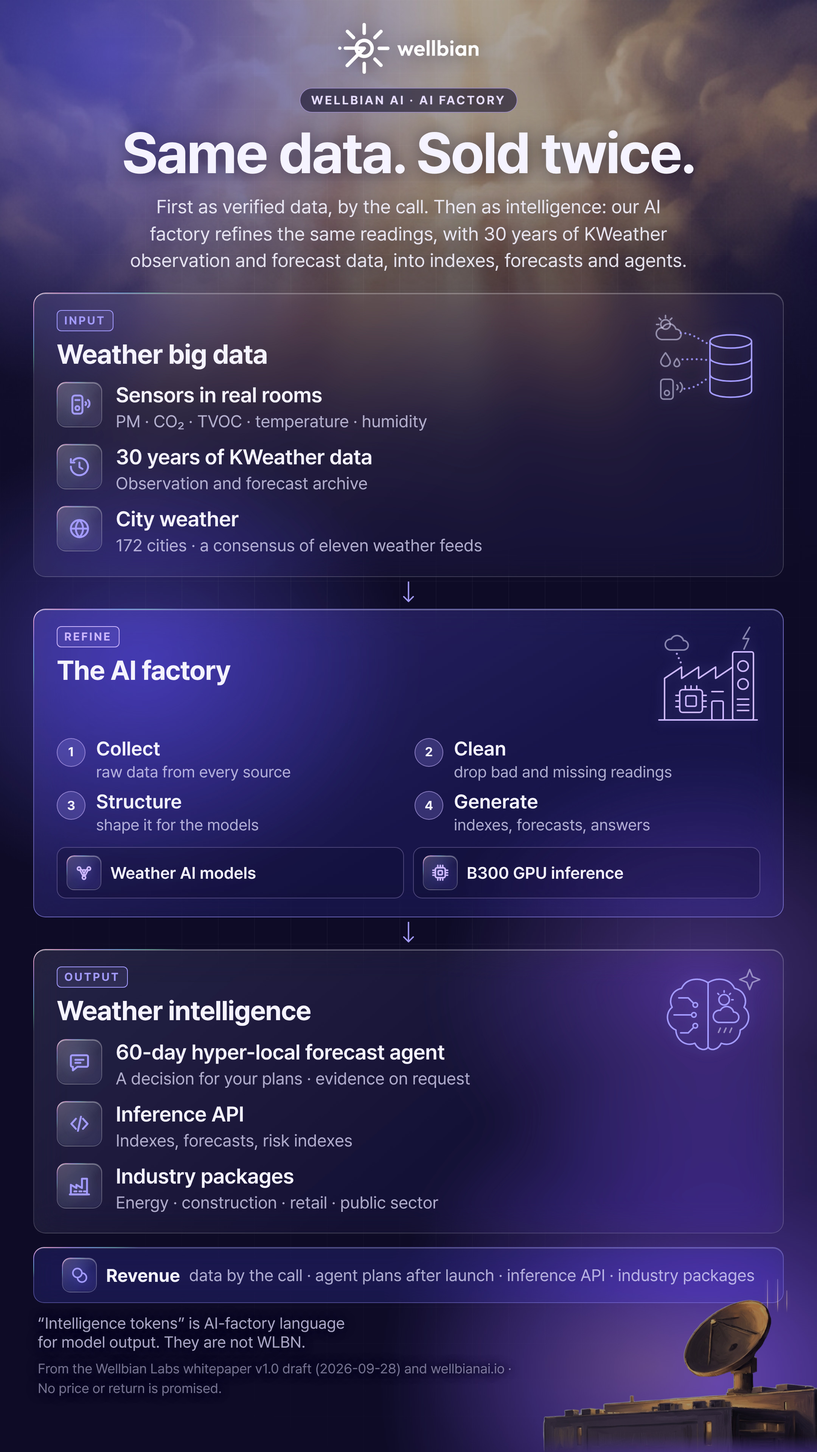
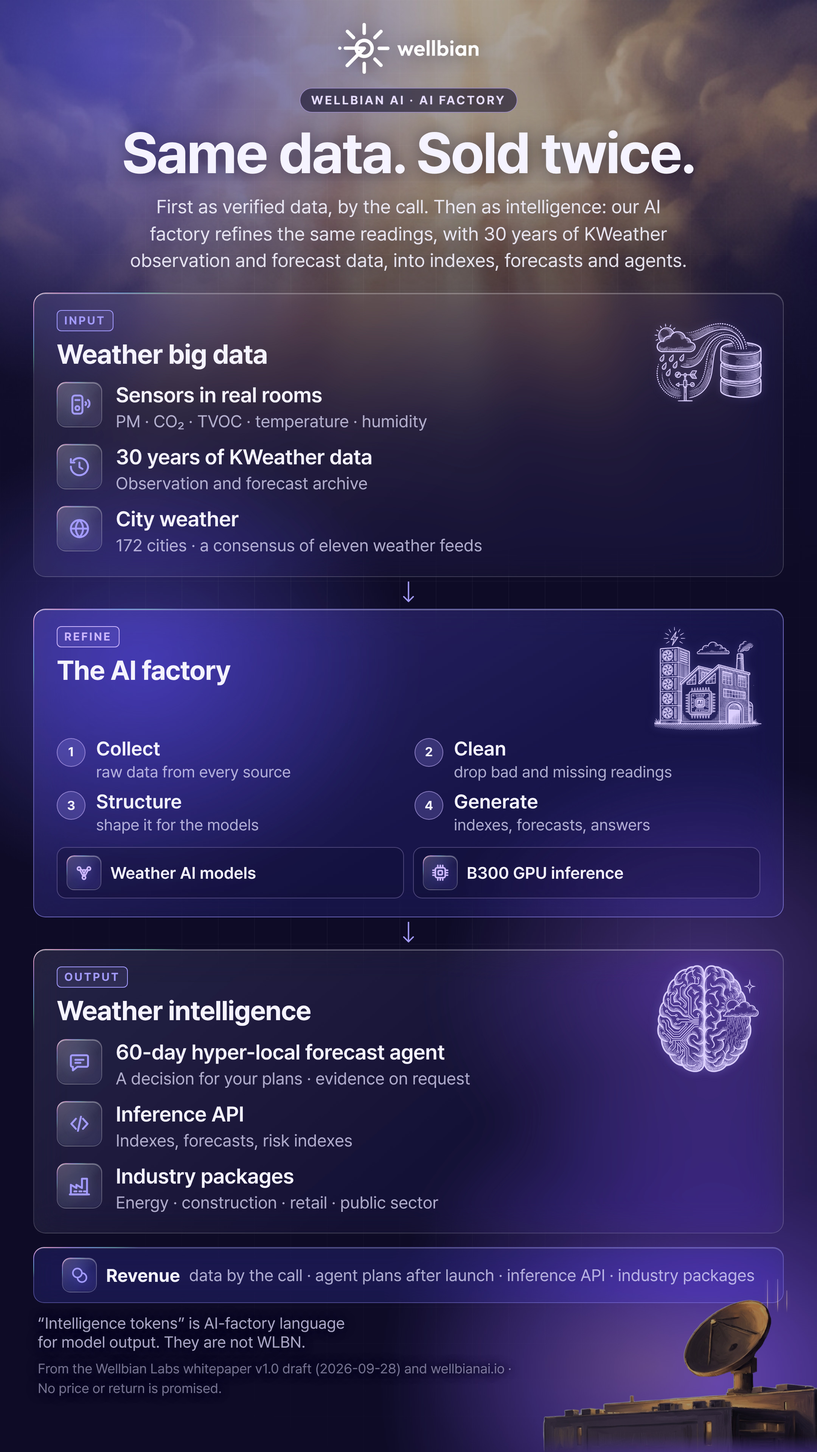
depin: redraw the part 3 tile illustrations as lavender etchings
Claude-Session: https://claude.ai/code/session_014drgzQYBXTLjd1zzmsjRaS

Changed region(s): [[0.8065, 0.6562, 0.9306, 0.75], [0.8065, 0.4375, 0.9306, 0.5], [0.8065, 0.2188, 0.9306, 0.2812]]

diff --git a/depin/content/ai-factory-1021/ai-factory-en-9x16.html b/depin/content/ai-factory-1021/ai-factory-en-9x16.html
@@ -98,6 +98,7 @@ h1{margin-top:18px;font-size:70px;font-weight:700;letter-spacing:-.025em;line-he
 .ill svg{width:100%;height:100%;fill:none;stroke:currentColor;stroke-width:1.6;stroke-linecap:round;stroke-linejoin:round;filter:drop-shadow(0 0 8px rgba(163,155,255,.35))}
 .ill .l2{stroke:rgba(226,224,255,.55)}
 .ill .dot{stroke:currentColor;stroke-width:2.2;stroke-dasharray:0 5;opacity:.85}
+.ill.etch img{width:100%;height:100%;object-fit:contain;display:block;filter:drop-shadow(0 0 6px rgba(163,155,255,.35))}
 /* 햇살 — 위에서 구름 사이로 쏟아지는 풍부한 금빛(마니에리스모 · 틴토레토 · 엘 그레코의 하늘빛). 10/22 서우 「인위적인 조명 말고 자연스러운 햇살」.
    그린 빛이 아니라 Higgsfield 로 만든 회화풍 배경(assets/light-*.jpg)을 깔고, 아래쪽은 남보라로 덮어 타일 글씨를 지킨다. */
 .paint{position:absolute;inset:0;background:url("assets/light-16x9.jpg") center top/cover no-repeat;opacity:.66}  /* 10/22 서우 「20% 약하게」 .82 → .66 */
@@ -175,11 +176,11 @@ h1{margin-top:14px;font-size:76px;line-height:1.04;text-align:center;letter-spac
 <div class="kicker">Wellbian AI · AI factory</div>
 <h1>Same data. Sold twice.</h1><p class="sub">First as verified data, by the call. Then as intelligence: our AI factory refines the same readings, with 30 years of KWeather observation and forecast data, into indexes, forecasts and agents.</p>
 <div class="fab">
-<section class="ft glass glint"><div class="ill"><svg viewBox="0 0 120 120" aria-hidden="true"><ellipse cx="84" cy="38" rx="22" ry="7"/><path d="M62 38v52c0 3.9 9.8 7 22 7s22-3.1 22-7V38"/><path d="M62 55.5c0 3.9 9.8 7 22 7s22-3.1 22-7"/><path d="M62 73c0 3.9 9.8 7 22 7s22-3.1 22-7"/><g class="l2"><circle cx="15" cy="20" r="5"/><path d="M15 10.5v2.5M5.5 20H8M8.3 13.3l1.8 1.8M21.7 13.3l-1.8 1.8"/><path d="M11 36h15a5.5 5.5 0 0 0 0-11 7.5 7.5 0 0 0-14-1.5A6 6 0 0 0 11 36z"/><path d="M15 50c-3.2 4.3-5 7.2-5 9.3a5 5 0 0 0 10 0c0-2.1-1.8-5-5-9.3z"/><path d="M27 56c-1.9 2.6-3 4.3-3 5.6a3 3 0 0 0 6 0c0-1.3-1.1-3-3-5.6z"/><rect x="10" y="78" width="13" height="21" rx="3"/><circle cx="16.5" cy="92.5" r="2.6"/><path d="M27 84c1.5 1.3 1.5 3.7 0 5M30.5 81.5c3 2.7 3 7.3 0 10"/></g><g class="dot"><path d="M31 29c12 0 18 6 30 12"/><path d="M33 57c10 0 17-1 28 1"/><path d="M35 88c10 0 16-5 26-12"/></g></svg></div><div class="hd"><div class="eyebrow">Input</div><h2>Weather big data</h2></div><div class="items"><div class="it"><span class="ico"><svg viewBox="0 0 24 24" aria-hidden="true"><rect x="5" y="3" width="10" height="18" rx="2.5"/><circle cx="10" cy="15.5" r="2"/><path d="M8 7.5h4"/><path d="M18 9.5c1 .8 1 2.2 0 3"/><path d="M20.5 7.5c2 1.7 2 5.3 0 7"/></svg></span><div><b>Sensors in real rooms</b><span class="d"><span class="nw">PM ·</span> <span class="nw">CO₂ ·</span> <span class="nw">TVOC ·</span> <span class="nw">temperature ·</span> <span class="nw">humidity</span></span></div></div><div class="it"><span class="ico"><svg viewBox="0 0 24 24" aria-hidden="true"><path d="M3.5 12a8.5 8.5 0 1 0 2.5-6"/><path d="M3.5 4.5V8H7"/><path d="M12 8v4.5l3 1.8"/></svg></span><div><b>30 years of KWeather data</b><span class="d">Observation and forecast archive</span></div></div><div class="it"><span class="ico"><svg viewBox="0 0 24 24" aria-hidden="true"><circle cx="12" cy="12" r="8.5"/><path d="M3.5 12h17"/><path d="M12 3.5c2.5 2.6 3.6 5.4 3.6 8.5s-1.1 5.9-3.6 8.5c-2.5-2.6-3.6-5.4-3.6-8.5S9.5 6.1 12 3.5z"/></svg></span><div><b>City weather</b><span class="d"><span class="nw">172 cities ·</span> <span class="nw">a consensus of eleven weather feeds</span></span></div></div></div></section>
+<section class="ft glass glint"><div class="ill etch"><img src="assets/etch-data.png" alt=""></div><div class="hd"><div class="eyebrow">Input</div><h2>Weather big data</h2></div><div class="items"><div class="it"><span class="ico"><svg viewBox="0 0 24 24" aria-hidden="true"><rect x="5" y="3" width="10" height="18" rx="2.5"/><circle cx="10" cy="15.5" r="2"/><path d="M8 7.5h4"/><path d="M18 9.5c1 .8 1 2.2 0 3"/><path d="M20.5 7.5c2 1.7 2 5.3 0 7"/></svg></span><div><b>Sensors in real rooms</b><span class="d"><span class="nw">PM ·</span> <span class="nw">CO₂ ·</span> <span class="nw">TVOC ·</span> <span class="nw">temperature ·</span> <span class="nw">humidity</span></span></div></div><div class="it"><span class="ico"><svg viewBox="0 0 24 24" aria-hidden="true"><path d="M3.5 12a8.5 8.5 0 1 0 2.5-6"/><path d="M3.5 4.5V8H7"/><path d="M12 8v4.5l3 1.8"/></svg></span><div><b>30 years of KWeather data</b><span class="d">Observation and forecast archive</span></div></div><div class="it"><span class="ico"><svg viewBox="0 0 24 24" aria-hidden="true"><circle cx="12" cy="12" r="8.5"/><path d="M3.5 12h17"/><path d="M12 3.5c2.5 2.6 3.6 5.4 3.6 8.5s-1.1 5.9-3.6 8.5c-2.5-2.6-3.6-5.4-3.6-8.5S9.5 6.1 12 3.5z"/></svg></span><div><b>City weather</b><span class="d"><span class="nw">172 cities ·</span> <span class="nw">a consensus of eleven weather feeds</span></span></div></div></div></section>
 <div class="chev"><svg viewBox="0 0 24 24" aria-hidden="true"><path d="M0 12h21M16 7l5 5-5 5"/></svg></div>
-<section class="ft hub glass glint"><div class="ill"><svg viewBox="0 0 120 120" aria-hidden="true"><path d="M8 104h104"/><path d="M14 104V60l18-12v12l18-12v12l18-12v12l18-12v56"/><rect x="86" y="32" width="22" height="72" rx="2"/><circle cx="97" cy="47" r="5.5"/><circle cx="97" cy="66" r="5.5"/><path d="M91 82h12M91 88h12M91 94h12"/><rect x="30" y="72" width="24" height="24" rx="3"/><rect x="36.5" y="78.5" width="11" height="11" rx="1.5"/><path d="M36 68v4M42 68v4M48 68v4M26 78h4M26 84h4M26 90h4M54 78h4M54 84h4M54 90h4"/><rect x="64" y="84" width="12" height="20" rx="1.5"/><path d="M64 74h12"/><g class="l2"><path d="M20 30h14a5 5 0 0 0 0-10 7 7 0 0 0-13-1.5A5.5 5.5 0 0 0 20 30z"/><path d="M104 6l-7 12h6l-5 11"/></g><g class="dot"><path d="M27 34c2 5 4 8 5 12"/></g></svg></div><div class="hd"><div class="eyebrow">Refine</div><h2>The AI factory</h2></div><div class="proc"><div class="pr"><span class="k">1</span><div><b>Collect</b><span>raw data from every source</span></div></div><div class="pr"><span class="k">2</span><div><b>Clean</b><span>drop bad and missing readings</span></div></div><div class="pr"><span class="k">3</span><div><b>Structure</b><span>shape it for the models</span></div></div><div class="pr"><span class="k">4</span><div><b>Generate</b><span>indexes, forecasts, answers</span></div></div></div><div class="eng"><div><span class="ico-s"><svg viewBox="0 0 24 24" aria-hidden="true"><circle cx="6" cy="7" r="2"/><circle cx="18" cy="7" r="2"/><circle cx="12" cy="18" r="2"/><circle cx="12" cy="10" r="1.6"/><path d="M7.8 7.7l2.7 1.4M16.2 7.7l-2.7 1.4M12 11.6V16M7 8.8l4 7.5M17 8.8l-4 7.5"/></svg></span>Weather AI models</div><div><span class="ico-s"><svg viewBox="0 0 24 24" aria-hidden="true"><rect x="6" y="6" width="12" height="12" rx="2"/><rect x="9.5" y="9.5" width="5" height="5" rx="1"/><path d="M9 3v3M12 3v3M15 3v3M9 18v3M12 18v3M15 18v3M3 9h3M3 12h3M3 15h3M18 9h3M18 12h3M18 15h3"/></svg></span>B300 GPU inference</div></div></section>
+<section class="ft hub glass glint"><div class="ill etch"><img src="assets/etch-factory.png" alt=""></div><div class="hd"><div class="eyebrow">Refine</div><h2>The AI factory</h2></div><div class="proc"><div class="pr"><span class="k">1</span><div><b>Collect</b><span>raw data from every source</span></div></div><div class="pr"><span class="k">2</span><div><b>Clean</b><span>drop bad and missing readings</span></div></div><div class="pr"><span class="k">3</span><div><b>Structure</b><span>shape it for the models</span></div></div><div class="pr"><span class="k">4</span><div><b>Generate</b><span>indexes, forecasts, answers</span></div></div></div><div class="eng"><div><span class="ico-s"><svg viewBox="0 0 24 24" aria-hidden="true"><circle cx="6" cy="7" r="2"/><circle cx="18" cy="7" r="2"/><circle cx="12" cy="18" r="2"/><circle cx="12" cy="10" r="1.6"/><path d="M7.8 7.7l2.7 1.4M16.2 7.7l-2.7 1.4M12 11.6V16M7 8.8l4 7.5M17 8.8l-4 7.5"/></svg></span>Weather AI models</div><div><span class="ico-s"><svg viewBox="0 0 24 24" aria-hidden="true"><rect x="6" y="6" width="12" height="12" rx="2"/><rect x="9.5" y="9.5" width="5" height="5" rx="1"/><path d="M9 3v3M12 3v3M15 3v3M9 18v3M12 18v3M15 18v3M3 9h3M3 12h3M3 15h3M18 9h3M18 12h3M18 15h3"/></svg></span>B300 GPU inference</div></div></section>
 <div class="chev"><svg viewBox="0 0 24 24" aria-hidden="true"><path d="M0 12h21M16 7l5 5-5 5"/></svg></div>
-<section class="ft glass glint"><div class="ill"><svg viewBox="0 0 120 120" aria-hidden="true"><path d="M60 22c-9-6-23-5-28 6-10 2-14 12-10 20-8 6-6 20 4 24 0 10 10 18 20 14 4 8 12 8 14 4z"/><path d="M60 22c9-6 23-5 28 6 10 2 14 12 10 20 8 6 6 20-4 24 0 10-10 18-20 14-4 8-12 8-14 4z"/><path d="M60 22v68"/><path d="M29 38h10l5 5M24 56h18M31 75h8l5-5"/><circle cx="46.5" cy="45.5" r="2.4"/><circle cx="45" cy="56" r="2.4"/><circle cx="46.5" cy="67.5" r="2.4"/><circle cx="77" cy="40" r="5.5"/><path d="M77 30.5V32M86.5 40H85M70.3 33.3l1 1M83.7 33.3l-1 1"/><path d="M71 64h16a5.5 5.5 0 0 0 0-11 7.5 7.5 0 0 0-14-1.8A6 6 0 0 0 71 64z"/><g class="l2"><path d="M73 70l-2 4.5M79 70l-2 4.5M85 70l-2 4.5"/><path d="M104 8l3 7.6 7.6 3-7.6 3-3 7.6-3-7.6-7.6-3 7.6-3z"/></g></svg></div><div class="hd"><div class="eyebrow">Output</div><h2>Weather intelligence</h2></div><div class="items"><div class="it"><span class="ico"><svg viewBox="0 0 24 24" aria-hidden="true"><path d="M5 5.5h14a1.5 1.5 0 0 1 1.5 1.5v8.5a1.5 1.5 0 0 1-1.5 1.5H10l-4.5 3.5V17H5a1.5 1.5 0 0 1-1.5-1.5V7A1.5 1.5 0 0 1 5 5.5z"/><path d="M8 10h8M8 13h5"/></svg></span><div><b>60-day hyper-local forecast agent</b><span class="d"><span class="nw">A decision for your plans ·</span> <span class="nw">evidence on request</span></span></div></div><div class="it"><span class="ico"><svg viewBox="0 0 24 24" aria-hidden="true"><path d="M8.5 7L4 12l4.5 5"/><path d="M15.5 7L20 12l-4.5 5"/><path d="M13.5 5l-3 14"/></svg></span><div><b>Inference API</b><span class="d">Indexes, forecasts, risk indexes</span></div></div><div class="it"><span class="ico"><svg viewBox="0 0 24 24" aria-hidden="true"><path d="M3.5 20.5V11l5.5 3.2V11l5.5 3.2V5h5v15.5z"/><path d="M2.5 20.5h19"/><path d="M7 17.5h2M12 17.5h2M16.5 17.5h1.5"/></svg></span><div><b>Industry packages</b><span class="d"><span class="nw">Energy ·</span> <span class="nw">construction ·</span> <span class="nw">retail ·</span> <span class="nw">public sector</span></span></div></div></div></section>
+<section class="ft glass glint"><div class="ill etch"><img src="assets/etch-intel.png" alt=""></div><div class="hd"><div class="eyebrow">Output</div><h2>Weather intelligence</h2></div><div class="items"><div class="it"><span class="ico"><svg viewBox="0 0 24 24" aria-hidden="true"><path d="M5 5.5h14a1.5 1.5 0 0 1 1.5 1.5v8.5a1.5 1.5 0 0 1-1.5 1.5H10l-4.5 3.5V17H5a1.5 1.5 0 0 1-1.5-1.5V7A1.5 1.5 0 0 1 5 5.5z"/><path d="M8 10h8M8 13h5"/></svg></span><div><b>60-day hyper-local forecast agent</b><span class="d"><span class="nw">A decision for your plans ·</span> <span class="nw">evidence on request</span></span></div></div><div class="it"><span class="ico"><svg viewBox="0 0 24 24" aria-hidden="true"><path d="M8.5 7L4 12l4.5 5"/><path d="M15.5 7L20 12l-4.5 5"/><path d="M13.5 5l-3 14"/></svg></span><div><b>Inference API</b><span class="d">Indexes, forecasts, risk indexes</span></div></div><div class="it"><span class="ico"><svg viewBox="0 0 24 24" aria-hidden="true"><path d="M3.5 20.5V11l5.5 3.2V11l5.5 3.2V5h5v15.5z"/><path d="M2.5 20.5h19"/><path d="M7 17.5h2M12 17.5h2M16.5 17.5h1.5"/></svg></span><div><b>Industry packages</b><span class="d"><span class="nw">Energy ·</span> <span class="nw">construction ·</span> <span class="nw">retail ·</span> <span class="nw">public sector</span></span></div></div></div></section>
 </div>
 <div class="ops band glint"><span class="ico-s"><svg viewBox="0 0 24 24" aria-hidden="true"><circle cx="9.5" cy="9.5" r="5.5"/><path d="M15.4 9.6a5.5 5.5 0 1 1-5.8 5.8"/></svg></span><b>Revenue</b><span>data by the call · agent plans after launch · inference API · industry packages</span></div>
 <p class="note">“Intelligence tokens” is AI-factory language for model output. They are not WLBN.</p>

diff --git a/depin/content/ai-factory-1021/ai-factory-en.html b/depin/content/ai-factory-1021/ai-factory-en.html
@@ -98,6 +98,7 @@ h1{margin-top:18px;font-size:70px;font-weight:700;letter-spacing:-.025em;line-he
 .ill svg{width:100%;height:100%;fill:none;stroke:currentColor;stroke-width:1.6;stroke-linecap:round;stroke-linejoin:round;filter:drop-shadow(0 0 8px rgba(163,155,255,.35))}
 .ill .l2{stroke:rgba(226,224,255,.55)}
 .ill .dot{stroke:currentColor;stroke-width:2.2;stroke-dasharray:0 5;opacity:.85}
+.ill.etch img{width:100%;height:100%;object-fit:contain;display:block;filter:drop-shadow(0 0 6px rgba(163,155,255,.35))}
 /* 햇살 — 위에서 구름 사이로 쏟아지는 풍부한 금빛(마니에리스모 · 틴토레토 · 엘 그레코의 하늘빛). 10/22 서우 「인위적인 조명 말고 자연스러운 햇살」.
    그린 빛이 아니라 Higgsfield 로 만든 회화풍 배경(assets/light-*.jpg)을 깔고, 아래쪽은 남보라로 덮어 타일 글씨를 지킨다. */
 .paint{position:absolute;inset:0;background:url("assets/light-16x9.jpg") center top/cover no-repeat;opacity:.66}  /* 10/22 서우 「20% 약하게」 .82 → .66 */
@@ -124,11 +125,11 @@ h1{margin-top:18px;font-size:70px;font-weight:700;letter-spacing:-.025em;line-he
 <div class="kicker">Wellbian AI · AI factory</div>
 <h1>Same data. Sold twice.</h1><p class="sub">First as verified data, by the call. Then as intelligence: our AI factory refines the same readings, with 30 years of KWeather observation and forecast data, into indexes, forecasts and agents.</p>
 <div class="fab">
-<section class="ft glass glint"><div class="ill"><svg viewBox="0 0 120 120" aria-hidden="true"><ellipse cx="84" cy="38" rx="22" ry="7"/><path d="M62 38v52c0 3.9 9.8 7 22 7s22-3.1 22-7V38"/><path d="M62 55.5c0 3.9 9.8 7 22 7s22-3.1 22-7"/><path d="M62 73c0 3.9 9.8 7 22 7s22-3.1 22-7"/><g class="l2"><circle cx="15" cy="20" r="5"/><path d="M15 10.5v2.5M5.5 20H8M8.3 13.3l1.8 1.8M21.7 13.3l-1.8 1.8"/><path d="M11 36h15a5.5 5.5 0 0 0 0-11 7.5 7.5 0 0 0-14-1.5A6 6 0 0 0 11 36z"/><path d="M15 50c-3.2 4.3-5 7.2-5 9.3a5 5 0 0 0 10 0c0-2.1-1.8-5-5-9.3z"/><path d="M27 56c-1.9 2.6-3 4.3-3 5.6a3 3 0 0 0 6 0c0-1.3-1.1-3-3-5.6z"/><rect x="10" y="78" width="13" height="21" rx="3"/><circle cx="16.5" cy="92.5" r="2.6"/><path d="M27 84c1.5 1.3 1.5 3.7 0 5M30.5 81.5c3 2.7 3 7.3 0 10"/></g><g class="dot"><path d="M31 29c12 0 18 6 30 12"/><path d="M33 57c10 0 17-1 28 1"/><path d="M35 88c10 0 16-5 26-12"/></g></svg></div><div class="hd"><div class="eyebrow">Input</div><h2>Weather big data</h2></div><div class="items"><div class="it"><span class="ico"><svg viewBox="0 0 24 24" aria-hidden="true"><rect x="5" y="3" width="10" height="18" rx="2.5"/><circle cx="10" cy="15.5" r="2"/><path d="M8 7.5h4"/><path d="M18 9.5c1 .8 1 2.2 0 3"/><path d="M20.5 7.5c2 1.7 2 5.3 0 7"/></svg></span><div><b>Sensors in real rooms</b><span class="d"><span class="nw">PM ·</span> <span class="nw">CO₂ ·</span> <span class="nw">TVOC ·</span> <span class="nw">temperature ·</span> <span class="nw">humidity</span></span></div></div><div class="it"><span class="ico"><svg viewBox="0 0 24 24" aria-hidden="true"><path d="M3.5 12a8.5 8.5 0 1 0 2.5-6"/><path d="M3.5 4.5V8H7"/><path d="M12 8v4.5l3 1.8"/></svg></span><div><b>30 years of KWeather data</b><span class="d">Observation and forecast archive</span></div></div><div class="it"><span class="ico"><svg viewBox="0 0 24 24" aria-hidden="true"><circle cx="12" cy="12" r="8.5"/><path d="M3.5 12h17"/><path d="M12 3.5c2.5 2.6 3.6 5.4 3.6 8.5s-1.1 5.9-3.6 8.5c-2.5-2.6-3.6-5.4-3.6-8.5S9.5 6.1 12 3.5z"/></svg></span><div><b>City weather</b><span class="d"><span class="nw">172 cities ·</span> <span class="nw">a consensus of eleven weather feeds</span></span></div></div></div></section>
+<section class="ft glass glint"><div class="ill etch"><img src="assets/etch-data.png" alt=""></div><div class="hd"><div class="eyebrow">Input</div><h2>Weather big data</h2></div><div class="items"><div class="it"><span class="ico"><svg viewBox="0 0 24 24" aria-hidden="true"><rect x="5" y="3" width="10" height="18" rx="2.5"/><circle cx="10" cy="15.5" r="2"/><path d="M8 7.5h4"/><path d="M18 9.5c1 .8 1 2.2 0 3"/><path d="M20.5 7.5c2 1.7 2 5.3 0 7"/></svg></span><div><b>Sensors in real rooms</b><span class="d"><span class="nw">PM ·</span> <span class="nw">CO₂ ·</span> <span class="nw">TVOC ·</span> <span class="nw">temperature ·</span> <span class="nw">humidity</span></span></div></div><div class="it"><span class="ico"><svg viewBox="0 0 24 24" aria-hidden="true"><path d="M3.5 12a8.5 8.5 0 1 0 2.5-6"/><path d="M3.5 4.5V8H7"/><path d="M12 8v4.5l3 1.8"/></svg></span><div><b>30 years of KWeather data</b><span class="d">Observation and forecast archive</span></div></div><div class="it"><span class="ico"><svg viewBox="0 0 24 24" aria-hidden="true"><circle cx="12" cy="12" r="8.5"/><path d="M3.5 12h17"/><path d="M12 3.5c2.5 2.6 3.6 5.4 3.6 8.5s-1.1 5.9-3.6 8.5c-2.5-2.6-3.6-5.4-3.6-8.5S9.5 6.1 12 3.5z"/></svg></span><div><b>City weather</b><span class="d"><span class="nw">172 cities ·</span> <span class="nw">a consensus of eleven weather feeds</span></span></div></div></div></section>
 <div class="chev"><svg viewBox="0 0 24 24" aria-hidden="true"><path d="M0 12h21M16 7l5 5-5 5"/></svg></div>
-<section class="ft hub glass glint"><div class="ill"><svg viewBox="0 0 120 120" aria-hidden="true"><path d="M8 104h104"/><path d="M14 104V60l18-12v12l18-12v12l18-12v12l18-12v56"/><rect x="86" y="32" width="22" height="72" rx="2"/><circle cx="97" cy="47" r="5.5"/><circle cx="97" cy="66" r="5.5"/><path d="M91 82h12M91 88h12M91 94h12"/><rect x="30" y="72" width="24" height="24" rx="3"/><rect x="36.5" y="78.5" width="11" height="11" rx="1.5"/><path d="M36 68v4M42 68v4M48 68v4M26 78h4M26 84h4M26 90h4M54 78h4M54 84h4M54 90h4"/><rect x="64" y="84" width="12" height="20" rx="1.5"/><path d="M64 74h12"/><g class="l2"><path d="M20 30h14a5 5 0 0 0 0-10 7 7 0 0 0-13-1.5A5.5 5.5 0 0 0 20 30z"/><path d="M104 6l-7 12h6l-5 11"/></g><g class="dot"><path d="M27 34c2 5 4 8 5 12"/></g></svg></div><div class="hd"><div class="eyebrow">Refine</div><h2>The AI factory</h2></div><div class="proc"><div class="pr"><span class="k">1</span><div><b>Collect</b><span>raw data from every source</span></div></div><div class="pr"><span class="k">2</span><div><b>Clean</b><span>drop bad and missing readings</span></div></div><div class="pr"><span class="k">3</span><div><b>Structure</b><span>shape it for the models</span></div></div><div class="pr"><span class="k">4</span><div><b>Generate</b><span>indexes, forecasts, answers</span></div></div></div><div class="eng"><div><span class="ico-s"><svg viewBox="0 0 24 24" aria-hidden="true"><circle cx="6" cy="7" r="2"/><circle cx="18" cy="7" r="2"/><circle cx="12" cy="18" r="2"/><circle cx="12" cy="10" r="1.6"/><path d="M7.8 7.7l2.7 1.4M16.2 7.7l-2.7 1.4M12 11.6V16M7 8.8l4 7.5M17 8.8l-4 7.5"/></svg></span>Weather AI models</div><div><span class="ico-s"><svg viewBox="0 0 24 24" aria-hidden="true"><rect x="6" y="6" width="12" height="12" rx="2"/><rect x="9.5" y="9.5" width="5" height="5" rx="1"/><path d="M9 3v3M12 3v3M15 3v3M9 18v3M12 18v3M15 18v3M3 9h3M3 12h3M3 15h3M18 9h3M18 12h3M18 15h3"/></svg></span>B300 GPU inference</div></div></section>
+<section class="ft hub glass glint"><div class="ill etch"><img src="assets/etch-factory.png" alt=""></div><div class="hd"><div class="eyebrow">Refine</div><h2>The AI factory</h2></div><div class="proc"><div class="pr"><span class="k">1</span><div><b>Collect</b><span>raw data from every source</span></div></div><div class="pr"><span class="k">2</span><div><b>Clean</b><span>drop bad and missing readings</span></div></div><div class="pr"><span class="k">3</span><div><b>Structure</b><span>shape it for the models</span></div></div><div class="pr"><span class="k">4</span><div><b>Generate</b><span>indexes, forecasts, answers</span></div></div></div><div class="eng"><div><span class="ico-s"><svg viewBox="0 0 24 24" aria-hidden="true"><circle cx="6" cy="7" r="2"/><circle cx="18" cy="7" r="2"/><circle cx="12" cy="18" r="2"/><circle cx="12" cy="10" r="1.6"/><path d="M7.8 7.7l2.7 1.4M16.2 7.7l-2.7 1.4M12 11.6V16M7 8.8l4 7.5M17 8.8l-4 7.5"/></svg></span>Weather AI models</div><div><span class="ico-s"><svg viewBox="0 0 24 24" aria-hidden="true"><rect x="6" y="6" width="12" height="12" rx="2"/><rect x="9.5" y="9.5" width="5" height="5" rx="1"/><path d="M9 3v3M12 3v3M15 3v3M9 18v3M12 18v3M15 18v3M3 9h3M3 12h3M3 15h3M18 9h3M18 12h3M18 15h3"/></svg></span>B300 GPU inference</div></div></section>
 <div class="chev"><svg viewBox="0 0 24 24" aria-hidden="true"><path d="M0 12h21M16 7l5 5-5 5"/></svg></div>
-<section class="ft glass glint"><div class="ill"><svg viewBox="0 0 120 120" aria-hidden="true"><path d="M60 22c-9-6-23-5-28 6-10 2-14 12-10 20-8 6-6 20 4 24 0 10 10 18 20 14 4 8 12 8 14 4z"/><path d="M60 22c9-6 23-5 28 6 10 2 14 12 10 20 8 6 6 20-4 24 0 10-10 18-20 14-4 8-12 8-14 4z"/><path d="M60 22v68"/><path d="M29 38h10l5 5M24 56h18M31 75h8l5-5"/><circle cx="46.5" cy="45.5" r="2.4"/><circle cx="45" cy="56" r="2.4"/><circle cx="46.5" cy="67.5" r="2.4"/><circle cx="77" cy="40" r="5.5"/><path d="M77 30.5V32M86.5 40H85M70.3 33.3l1 1M83.7 33.3l-1 1"/><path d="M71 64h16a5.5 5.5 0 0 0 0-11 7.5 7.5 0 0 0-14-1.8A6 6 0 0 0 71 64z"/><g class="l2"><path d="M73 70l-2 4.5M79 70l-2 4.5M85 70l-2 4.5"/><path d="M104 8l3 7.6 7.6 3-7.6 3-3 7.6-3-7.6-7.6-3 7.6-3z"/></g></svg></div><div class="hd"><div class="eyebrow">Output</div><h2>Weather intelligence</h2></div><div class="items"><div class="it"><span class="ico"><svg viewBox="0 0 24 24" aria-hidden="true"><path d="M5 5.5h14a1.5 1.5 0 0 1 1.5 1.5v8.5a1.5 1.5 0 0 1-1.5 1.5H10l-4.5 3.5V17H5a1.5 1.5 0 0 1-1.5-1.5V7A1.5 1.5 0 0 1 5 5.5z"/><path d="M8 10h8M8 13h5"/></svg></span><div><b>60-day hyper-local forecast agent</b><span class="d"><span class="nw">A decision for your plans ·</span> <span class="nw">evidence on request</span></span></div></div><div class="it"><span class="ico"><svg viewBox="0 0 24 24" aria-hidden="true"><path d="M8.5 7L4 12l4.5 5"/><path d="M15.5 7L20 12l-4.5 5"/><path d="M13.5 5l-3 14"/></svg></span><div><b>Inference API</b><span class="d">Indexes, forecasts, risk indexes</span></div></div><div class="it"><span class="ico"><svg viewBox="0 0 24 24" aria-hidden="true"><path d="M3.5 20.5V11l5.5 3.2V11l5.5 3.2V5h5v15.5z"/><path d="M2.5 20.5h19"/><path d="M7 17.5h2M12 17.5h2M16.5 17.5h1.5"/></svg></span><div><b>Industry packages</b><span class="d"><span class="nw">Energy ·</span> <span class="nw">construction ·</span> <span class="nw">retail ·</span> <span class="nw">public sector</span></span></div></div></div></section>
+<section class="ft glass glint"><div class="ill etch"><img src="assets/etch-intel.png" alt=""></div><div class="hd"><div class="eyebrow">Output</div><h2>Weather intelligence</h2></div><div class="items"><div class="it"><span class="ico"><svg viewBox="0 0 24 24" aria-hidden="true"><path d="M5 5.5h14a1.5 1.5 0 0 1 1.5 1.5v8.5a1.5 1.5 0 0 1-1.5 1.5H10l-4.5 3.5V17H5a1.5 1.5 0 0 1-1.5-1.5V7A1.5 1.5 0 0 1 5 5.5z"/><path d="M8 10h8M8 13h5"/></svg></span><div><b>60-day hyper-local forecast agent</b><span class="d"><span class="nw">A decision for your plans ·</span> <span class="nw">evidence on request</span></span></div></div><div class="it"><span class="ico"><svg viewBox="0 0 24 24" aria-hidden="true"><path d="M8.5 7L4 12l4.5 5"/><path d="M15.5 7L20 12l-4.5 5"/><path d="M13.5 5l-3 14"/></svg></span><div><b>Inference API</b><span class="d">Indexes, forecasts, risk indexes</span></div></div><div class="it"><span class="ico"><svg viewBox="0 0 24 24" aria-hidden="true"><path d="M3.5 20.5V11l5.5 3.2V11l5.5 3.2V5h5v15.5z"/><path d="M2.5 20.5h19"/><path d="M7 17.5h2M12 17.5h2M16.5 17.5h1.5"/></svg></span><div><b>Industry packages</b><span class="d"><span class="nw">Energy ·</span> <span class="nw">construction ·</span> <span class="nw">retail ·</span> <span class="nw">public sector</span></span></div></div></div></section>
 </div>
 <div class="ops band glint"><span class="ico-s"><svg viewBox="0 0 24 24" aria-hidden="true"><circle cx="9.5" cy="9.5" r="5.5"/><path d="M15.4 9.6a5.5 5.5 0 1 1-5.8 5.8"/></svg></span><b>Revenue</b><span>data by the call · agent plans after launch · inference API · industry packages</span></div>
 <p class="note">“Intelligence tokens” is AI-factory language for model output. They are not WLBN.</p>

diff --git a/depin/content/ai-factory-1021/build.py b/depin/content/ai-factory-1021/build.py
@@ -82,6 +82,7 @@ XCSS = """
 .ill svg{width:100%;height:100%;fill:none;stroke:currentColor;stroke-width:1.6;stroke-linecap:round;stroke-linejoin:round;filter:drop-shadow(0 0 8px rgba(163,155,255,.35))}
 .ill .l2{stroke:rgba(226,224,255,.55)}
 .ill .dot{stroke:currentColor;stroke-width:2.2;stroke-dasharray:0 5;opacity:.85}
+.ill.etch img{width:100%;height:100%;object-fit:contain;display:block;filter:drop-shadow(0 0 6px rgba(163,155,255,.35))}
 /* 햇살 — 위에서 구름 사이로 쏟아지는 풍부한 금빛(마니에리스모 · 틴토레토 · 엘 그레코의 하늘빛). 10/22 서우 「인위적인 조명 말고 자연스러운 햇살」.
    그린 빛이 아니라 Higgsfield 로 만든 회화풍 배경(assets/light-*.jpg)을 깔고, 아래쪽은 남보라로 덮어 타일 글씨를 지킨다. */
 .paint{position:absolute;inset:0;background:url("assets/light-16x9.jpg") center top/cover no-repeat;opacity:.66}  /* 10/22 서우 「20% 약하게」 .82 → .66 */
@@ -190,8 +191,12 @@ ILLUS = {
   '<path d="M104 8l3 7.6 7.6 3-7.6 3-3 7.6-3-7.6-7.6-3 7.6-3z"/></g>'),
 }
 
+ETCH = {"data": "etch-data", "factory": "etch-factory", "intel": "etch-intel"}
+
 def illus(name):
-    return f'<div class="ill"><svg viewBox="0 0 120 120" aria-hidden="true">{ILLUS[name]}</svg></div>'
+    # 10/22 서우 「테이블 안 우측 아이콘들은 에칭 스타일로」(참고: 동판화 가면) — Higgsfield 에칭 그림 → 라벤더 선화(투명 배경).
+    # 이전 라인 SVG(ILLUS)는 남겨 둔다 — 되돌리려면 아래 한 줄을 svg 판으로.
+    return f'<div class="ill etch"><img src="assets/{ETCH[name]}.png" alt=""></div>'
 
 
 def streams(w=200, h=300, seed=11, n=9):

diff --git a/depin/reports/work-log.md b/depin/reports/work-log.md
@@ -2531,3 +2531,4 @@ Thanks Odelia — writing to you at that address today. Mine is support@wellbian
 - **연재 Part 3 15차(10/22, 서우 「건물이 붙여 놓은 느낌 · 데이터는 가랑비처럼 · 레이더 형태 살려」)** — 건물을 단색 배경에 다시 그려 오려낸 PNG(Higgsfield 2크레딧 + 배경 제거)로 교체 · 몸체 어둡게 · 금빛 번짐 · 데이터는 점선 몇 줄만 빈 자리 위로. `content/ai-factory-1021/`.
 - **연재 Part 3 16차(10/22, 서우 「데이터 기둥 없애고 건물 + 레이더만 · 실선 몇 가지만 상징적으로」)** — 점선 → 가는 실선 4(세로 3) · 건물 · 레이더는 15차 그대로. `content/ai-factory-1021/`.
 - **연재 Part 3 17차(10/22, 서우 「세로도 하단 건물 잘 보이게」)** — 세로판 건물 62px 올림 · 실선은 띠 글자 오른쪽으로. `content/ai-factory-1021/`.
+- **연재 Part 3 18차(10/22, 서우 「테이블 안 우측 아이콘 에칭 스타일로」)** — 데이터 · 공장 · 뇌 세 그림을 에칭(해칭) 선화로(Higgsfield 6크레딧 → 라벤더 · 투명 배경, 테두리 제거). 같은 턴에 17차(세로판 건물 올림)도 반영. `content/ai-factory-1021/`.

diff --git a/depin/content/ai-factory-1021/README.md b/depin/content/ai-factory-1021/README.md
@@ -38,6 +38,8 @@
 
 - **10/22 17차(서우 「가로처럼 세로도 하단에 건물이 잘 보이게」)**: 세로판 건물을 62px 올려(bottom −70 → −8) 지붕 · 창 · 몸체까지 보이게 · 뒤 금빛 번짐도 같이 올림. 레이더 위 실선은 띠 글자 끝보다 오른쪽으로(겹침 0).
 
+- **10/22 18차(서우 「테이블 안 우측 아이콘들은 에칭 스타일로」 + 참고 — 동판화 가면)**: 세 일러스트를 Higgsfield 에칭(동판화 · 해칭) 그림으로 다시 만들어(6크레딧, 6be9748d… · 5593efbf… · b757ea12…) 라벤더 선화 + 투명 배경으로 변환(`assets/etch-{data,factory,intel}.png` — 흑백 → 반전 → 알파). 공장 그림의 판 테두리는 잘라 내고, 뇌 그림의 동그란 테두리는 원 위치를 재서(중심 512,511 · 반지름 437) 안쪽만 남김. 이전 라인 SVG(`ILLUS`)는 코드에 남겨 둠.
+
 ## 백서 대조 (Company whitepaper v1.0 초안 2026-09-28 · wellbianai.io, 10/21 열람)
 
 | 원글 · 그림 | 백서 · 사이트 | 3편에서 |
